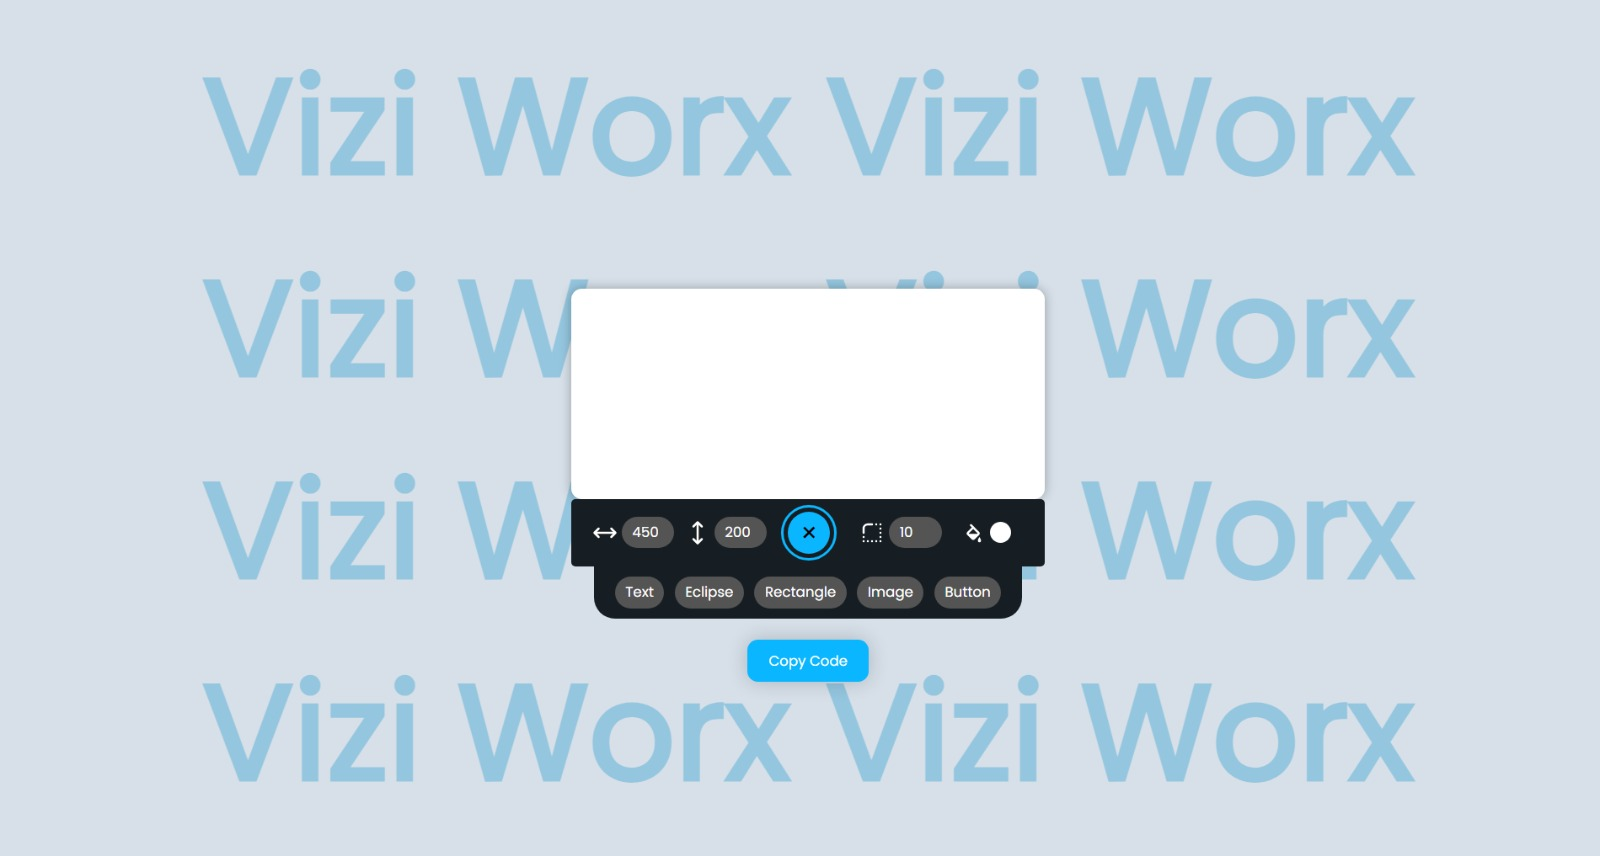
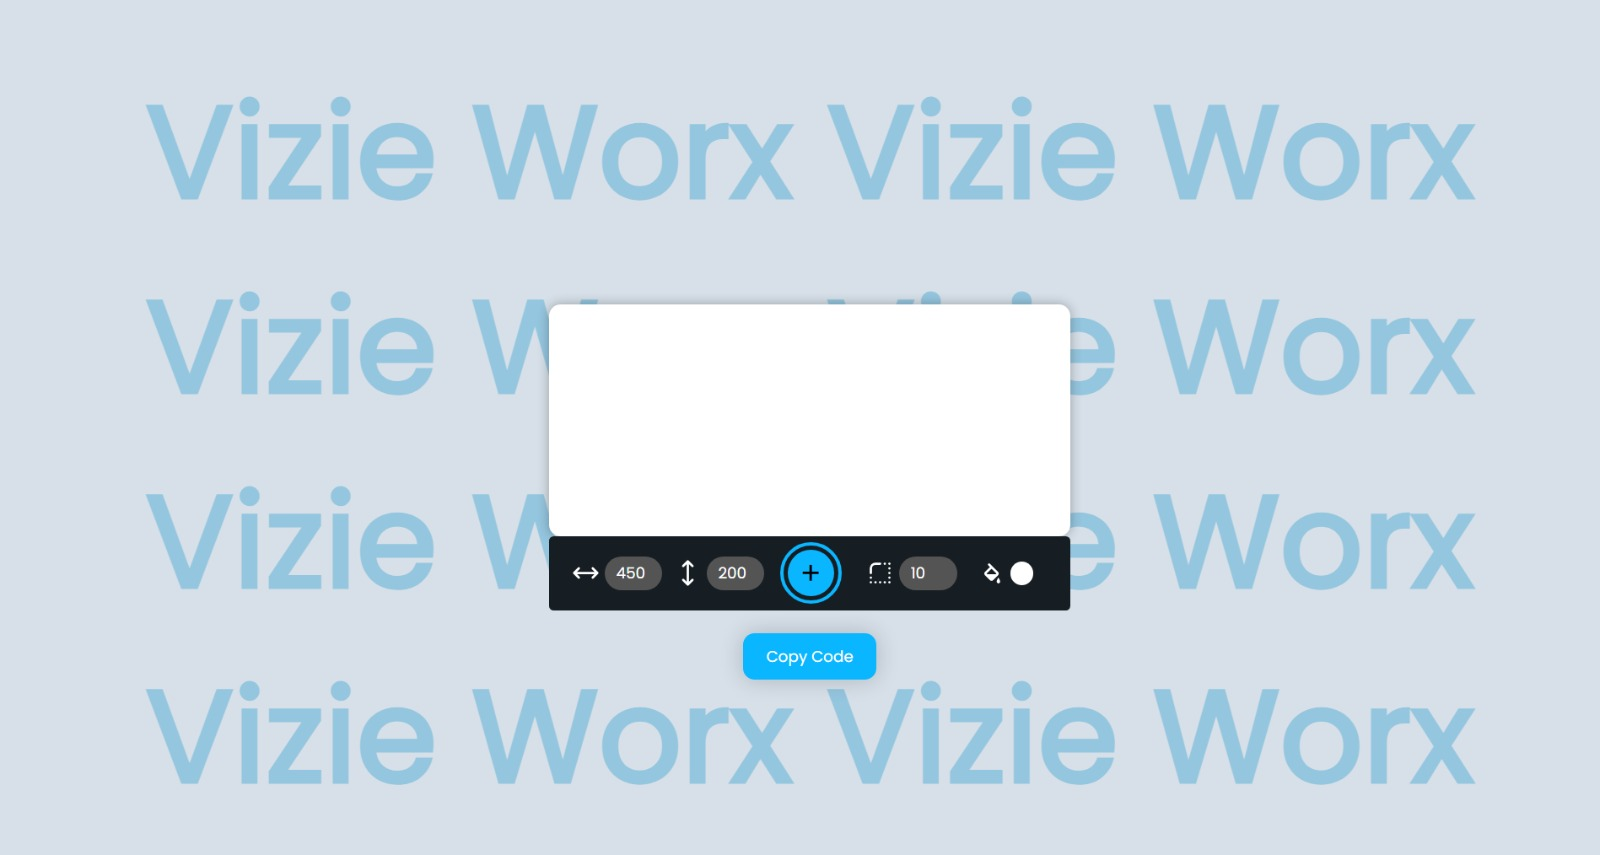
added meta tags

Changed region(s): [[0.0938, 0.3041, 0.9375, 0.9427], [0.0938, 0.0608, 0.9375, 0.2433], [0.5625, 0.7906, 0.9375, 0.9427]]

diff --git a/src/pages/index.tsx b/src/pages/index.tsx
@@ -104,10 +104,10 @@ export default function Home() {
             <button className={styles.copy_btn} type='button' onClick={onCodeShow}>Copy Code</button>
           </div>
           <div className={styles.vizi_worx__hero}>
-            <div>Vizi Worx Vizi Worx</div>
-            <div>Vizi Worx Vizi Worx</div>
-            <div>Vizi Worx Vizi Worx</div>
-            <div>Vizi Worx Vizi Worx</div>
+            <div>Vizie Worx Vizie Worx</div>
+            <div>Vizie Worx Vizie Worx</div>
+            <div>Vizie Worx Vizie Worx</div>
+            <div>Vizie Worx Vizie Worx</div>
           </div>
         </div>
         <div className={styles.about__container}>

diff --git a/src/styles/Home.module.css b/src/styles/Home.module.css
@@ -26,7 +26,7 @@
 .vizi_worx__hero{
   position: absolute;
   bottom: 0;
-  font-size: 8rem;
+  font-size: 7rem;
   width: 100%;
   text-align: center;
   font-weight: bold;
